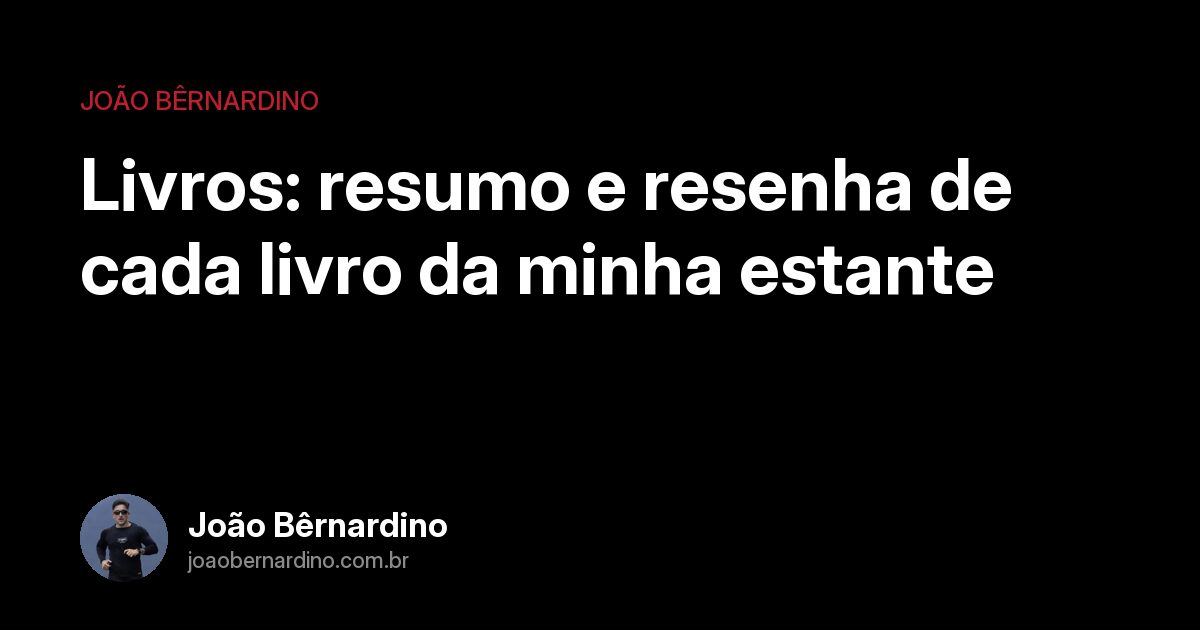
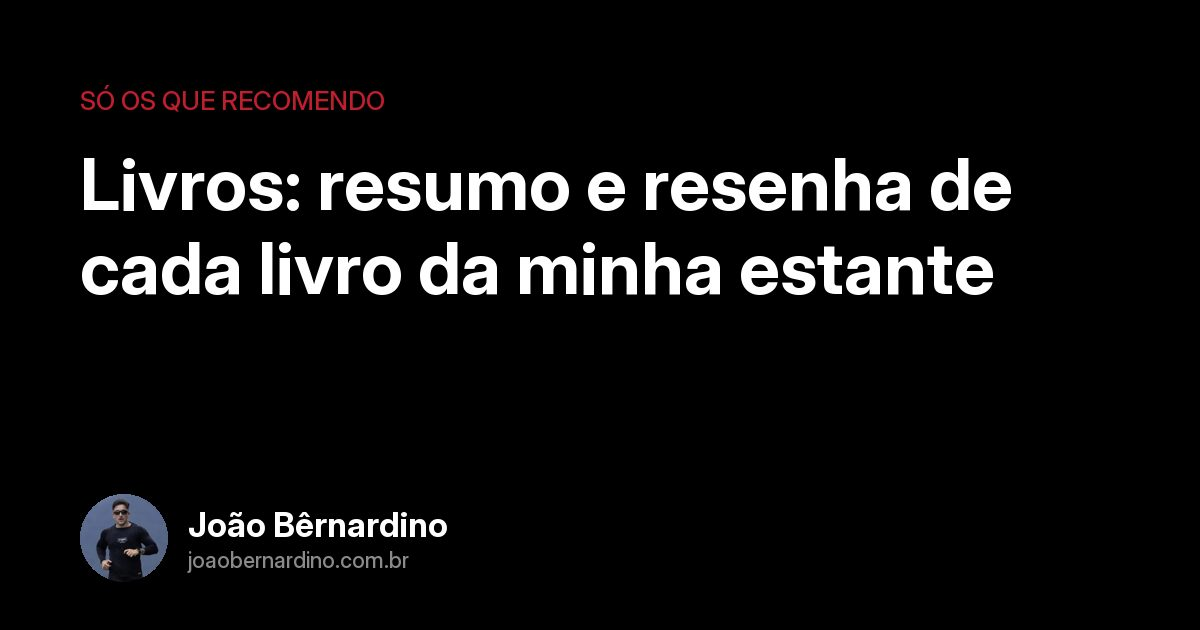
Selos: Zero Nóia = Minha causa ESG, Livros = Só os que recomendo, Indicações = Minhas

Changed region(s): [[0.0617, 0.1206, 0.3392, 0.181]]

diff --git a/blog/zero-noia/index.html b/blog/zero-noia/index.html
@@ -49,7 +49,7 @@ document.addEventListener('keydown',function(e){if(e.key==='Escape')set(false);}
 
 <section class="ix-hero"><div class="wrap">
   <nav class="crumbs" aria-label="Você está em"><a href="/">Início</a><span aria-hidden="true">›</span><a href="/blog/">Blog</a><span aria-hidden="true">›</span><span aria-current="page">Zero Nóia</span></nav>
-  <p class="kicker red">Tema</p>
+  <p class="kicker red">Minha causa ESG (Environmental, Social and Governance)</p>
   <h1 class="h1">Zero Nóia<span class="dot">.</span></h1>
   <p class="lead">Fui fumante durante 11 anos. Em 1º de janeiro de 2024 decidi parar e, no dia 7, comecei a documentar tudo na internet: um vídeo por dia, mais de 90 seguidos. Mais de 170 mil pessoas acompanharam essa virada, e dela nasceu o método Zero Nóia: 5 passos, com manual em PDF baseado na neurociência e na PNL, videoaulas e uma comunidade no WhatsApp onde milhares de pessoas se ajudam a parar de fumar.</p>
   <p class="byline"><img src="/img/avatar-192.webp" alt="" width="32" height="32" loading="lazy" decoding="async">por <a href="/sobre/">João Bêrnardino</a> · 17 textos</p>

diff --git a/blog/indicacoes/index.html b/blog/indicacoes/index.html
@@ -49,7 +49,7 @@ document.addEventListener('keydown',function(e){if(e.key==='Escape')set(false);}
 
 <section class="ix-hero"><div class="wrap">
   <nav class="crumbs" aria-label="Você está em"><a href="/">Início</a><span aria-hidden="true">›</span><a href="/blog/">Blog</a><span aria-hidden="true">›</span><span aria-current="page">Indicações</span></nav>
-  <p class="kicker red">O que eu indico</p>
+  <p class="kicker red">Minhas</p>
   <h1 class="h1">Indicações<span class="dot">.</span></h1>
   <p class="lead">Só entra aqui o que eu uso de verdade: os produtos do meu treino e da minha recuperação, o serviço que cuida da minha empresa, os livros que mudaram o meu jeito de trabalhar e as marcas com o meu cupom.</p>
   <p class="byline"><img src="/img/avatar-192.webp" alt="" width="32" height="32" loading="lazy" decoding="async">por <a href="/sobre/">João Bêrnardino</a> · 4 indicações</p>

diff --git a/blog/livros/index.html b/blog/livros/index.html
@@ -49,7 +49,7 @@ document.addEventListener('keydown',function(e){if(e.key==='Escape')set(false);}
 
 <section class="ix-hero"><div class="wrap">
   <nav class="crumbs" aria-label="Você está em"><a href="/">Início</a><span aria-hidden="true">›</span><a href="/blog/">Blog</a><span aria-hidden="true">›</span><span aria-current="page">Livros</span></nav>
-  <p class="kicker red">Blog · Tema</p>
+  <p class="kicker red">Só os que recomendo</p>
   <h1 class="h1">Livros<span class="dot">.</span></h1>
   <p class="lead">Todos os livros que eu tenho em casa, eu resumo aqui, um por um: o que o livro diz, o que eu apliquei, o que não serviu e pra quem é.</p>
   <p class="byline"><img src="/img/avatar-192.webp" alt="" width="32" height="32" loading="lazy" decoding="async">por <a href="/sobre/">João Bêrnardino</a> · 18 livros</p>

diff --git a/templates/hub_livros.html b/templates/hub_livros.html
@@ -2,7 +2,7 @@
 {% block content %}
 <section class="ix-hero"><div class="wrap">
   {% include "_crumbs.html" %}
-  <p class="kicker red">Blog · Tema</p>
+  <p class="kicker red">{{ page.kicker or 'Blog · Tema' }}</p>
   <h1 class="h1">{{ page.name }}<span class="dot">.</span></h1>
   {% if page.summary %}<p class="lead">{{ page.summary }}</p>{% endif %}
   <p class="byline"><img src="/img/avatar-192.webp" alt="" width="32" height="32" loading="lazy" decoding="async">por <a href="/sobre/">João Bêrnardino</a> · {{ page.total }} livros</p>

diff --git a/content/blog/indicacoes/index.md b/content/blog/indicacoes/index.md
@@ -7,7 +7,7 @@ unit: "indicações"
 unit_one: "indicação"
 card: "O que eu uso de verdade e indico: serviços, livros e marcas com o meu cupom."
 aliases: [/indicacoes/]
-kicker: "O que eu indico"
+kicker: "Minhas"
 date: 2026-09-29
 updated: 2026-09-29
 summary: "Só entra aqui o que eu uso de verdade: os produtos do meu treino e da minha recuperação, o serviço que cuida da minha empresa, os livros que mudaram o meu jeito de trabalhar e as marcas com o meu cupom."

diff --git a/content/blog/livros/index.md b/content/blog/livros/index.md
@@ -14,6 +14,7 @@ estantes:
   Mente e hábito: [flow, 12-regras-para-a-vida, nada-pode-me-ferir, a-estrutura-da-magia, o-milagre-da-manha, em-busca-de-sentido, os-segredos-da-mente-milionaria]
   Liderança: [pipeline-de-lideranca, responsabilidade-extrema, gestao-de-alta-performance, o-monge-e-o-executivo, legado-15-licoes-sobre-lideranca]
 unit: "livros"
+kicker: "Só os que recomendo"
 ---
 
 ## Como funciona

diff --git a/content/blog/zero-noia/index.md b/content/blog/zero-noia/index.md
@@ -33,6 +33,7 @@ cta:
 cover: ""
 cover_alt: ""
 draft: false
+kicker: "Minha causa ESG (Environmental, Social and Governance)"
 ---
 ## O que você encontra aqui
 
